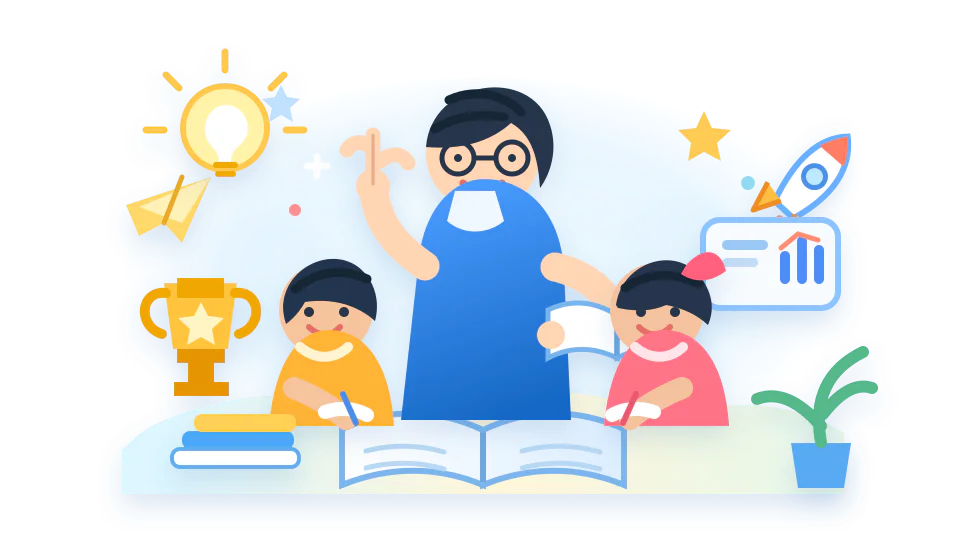
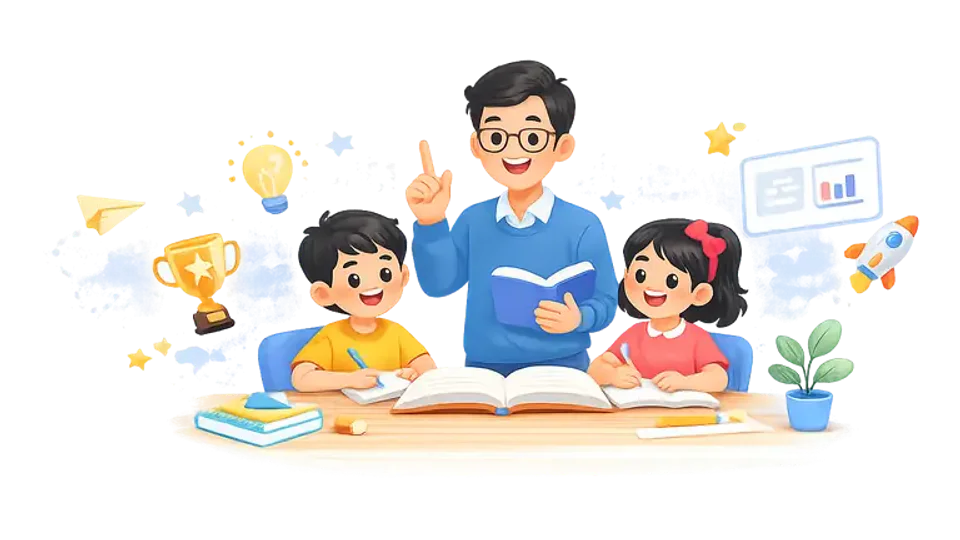
fix(teacher): use approved dashboard illustration (#67)

diff --git a/tests/TeacherDashboardAssets.test.tsx b/tests/TeacherDashboardAssets.test.tsx
@@ -42,10 +42,12 @@ describe('teacher dashboard visual assets', () => {
       'public/icons/tohieuquiz/dashboard-v2/manifest.json',
     );
     const manifest = JSON.parse(readFileSync(manifestPath, 'utf8')) as {
-      assets: Array<{ name: string; bytes: number; sha256: string }>;
+      assets: Array<{ name: string; source: string; bytes: number; sha256: string }>;
     };
 
     expect(manifest.assets).toHaveLength(11);
+    expect(manifest.assets.find((asset) => asset.name === 'teacher-welcome')?.source)
+      .toBe('artifacts/teacher-dashboard-source/teacher-welcome.webp');
     for (const asset of manifest.assets) {
       expect(asset.bytes).toBeGreaterThan(0);
       expect(asset.sha256).toMatch(/^[a-f0-9]{64}$/);

diff --git a/artifacts/teacher-dashboard-source/README.md b/artifacts/teacher-dashboard-source/README.md
@@ -1,10 +1,10 @@
 # Teacher dashboard visual sources
 
-Bộ nguồn vector trong thư mục này được tạo riêng cho dashboard giáo viên TôHiệuQuiz. Tất cả file có nền trong suốt, không chứa chữ, logo hoặc watermark.
+Bộ nguồn hình ảnh trong thư mục này được tạo riêng cho dashboard giáo viên TôHiệuQuiz. Illustration chào mừng dùng đúng artwork WebP đã duyệt; các asset còn lại dùng SVG. Tất cả file có nền trong suốt, không chứa chữ, logo hoặc watermark.
 
 | semanticName | sourceFilename | target | expectedRatio | maxBytes |
 | --- | --- | --- | --- | ---: |
-| teacher-welcome | teacher-welcome.svg | public/illustrations/tohieuquiz/teacher-dashboard-v2/teacher-welcome.webp | 16:9 | 160000 |
+| teacher-welcome | teacher-welcome.webp | public/illustrations/tohieuquiz/teacher-dashboard-v2/teacher-welcome.webp | 16:9 | 160000 |
 | ai-quiz-robot | ai-quiz-robot.svg | public/illustrations/tohieuquiz/teacher-dashboard-v2/ai-quiz-robot.webp | 4:3 | 90000 |
 | manual-quiz | manual-quiz.svg | public/illustrations/tohieuquiz/teacher-dashboard-v2/manual-quiz.webp | 4:3 | 90000 |
 | assignment | assignment.svg | public/icons/tohieuquiz/dashboard-v2/assignment.webp | 1:1 | 32000 |
